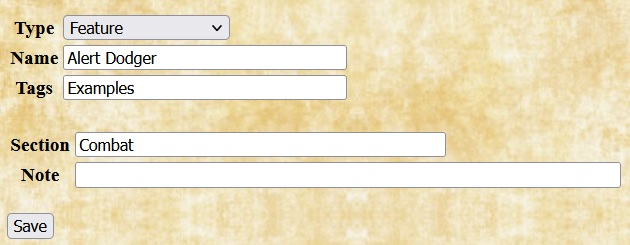
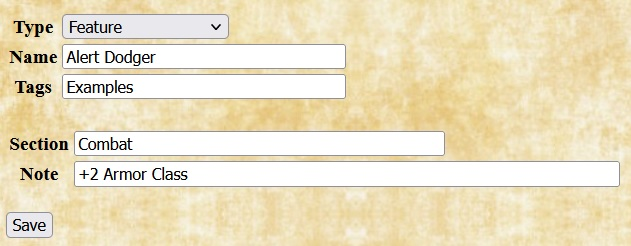
Add examples to description of using character attrs in homebrew choice definitions.

diff --git a/plugins/homebrew-srd35.html b/plugins/homebrew-srd35.html
@@ -371,8 +371,8 @@ of 19-20/x2.
 <p>
 There are three places that you might want to use references to character
 attributes when adding homebrew choices: prerequisites for homebrew classes,
-feats, class and race features, and races; embedded in feature notes and spell
-descriptions; and placement in feature notes that modify character attributes.
+feats, class and race features, and races; in feature notes that modify
+character attributes; and embedded in feature notes and spell descriptions.
 Attribute references appear somewhat differently in each of these contexts.
 </p><p>
 The examples below develop a homebrew feat named Alert Dodger. Like the monk AC
@@ -385,23 +385,23 @@ as a fighter bonus feat, so the initial entry for the feat looks like this:
 <h2>Using attributes in prerequisites</h2>
 
 <p>
-In the core rulebook, all prestige classes and many feats have
+In the core rulebook, many feats and all prestige classes have
 prerequisites&mdash;attribute values that the character must have to take the
 feat or a level in the prestige class. Quilvyn allows you to specify similar
 prerequisites when entering a homebrew class, feat, or race.
 </p><p>
 Since the effects of the Alert Dodger feat come from battle experience, it
 makes sense to require a minimum base attack bonus&mdash;say, 3&mdash;to take
-the feat. This is represented by adding text to the feat Prerequisite field:
+the feat. This is represented by adding text to the feat's Prerequisite field:
 </p>
 <img src='../Images/hb-attr-1.jpg' alt='Alert Dodger feat'/>
 
 <p>
 Quilvyn will generate tests for this requirement and will show a validation
-error if a character with a base attack bonus of 2 or lower is given this feat.
+error if a character with a base attack bonus of 2 or less is given this feat.
 You can also specify that the character must have a specific feature as part of
-your prerequisites. For the Alert Dodger feat, it makes sense to require that
-the character also have the Dodge feature:
+your prerequisites. For the Alert Dodger feat, it seems reasonable to require
+that the character also have the Dodge feature:
 </p>
 <img src='../Images/hb-attr-2.jpg' alt='Alert Dodger feat'/>
 
@@ -429,19 +429,29 @@ while the second allows any good alignment:
 <code>alignment == 'Lawful Good'</code><br/>
 <code>alignment =~ 'Good'</code>
 </p><p>
-<a href="https://developer.mozilla.org/en-US/docs/Web/JavaScript/Guide/Regular_expressions">Pattern Matching</a>
+(You can think of the =~ and !~ operators as "contains" and "does not contain",
+but they actually perform a pattern match, treating their second operand as a
+regular expression. This means that certain characters, such as * and ?, have
+special meanings if they appear in the second operand. The Mozilla project
+provides a web page with
+<a href="https://developer.mozilla.org/en-US/docs/Web/JavaScript/Guide/Regular_expressions">a detailed description of regular expressions</a>.)
 </p>
 
 <h2>Using features to modify character attributes</h2>
 
-<img src='../Images/hb-attr-feature-0.jpg' alt='Alert Dodger feature'/>
-
 <p>
-Quilvyn automatically generates rules from feature notes that modify simple
-character attributes. Given a feature note that reads
+With the Alert Dodger feat definition complete, the next step is to create the
+corresponding feature, also named Alert Dodger. This will add the description
+of the feat to the character sheet and allow Quilvyn to create rules to
+implement its effects. Since the feat affects a character's armor class, its
+note will fit best in the combat section.
+</p><p>
+To illustrate how Quilvyn processes feature notes, we'll initially define the
+Alert Dodger feat to add a fixed +2 to the character's armor class, switching
+later to adding the wisdom modifier instead.
 </p>
 
-<code>+2 Armor Class</code>
+<img src='../Images/hb-attr-feature-0.jpg' alt='Alert Dodger feature'/>
 
 <p>
 Quilvyn will automatically generate a rule that adds two to the character's
@@ -449,10 +459,12 @@ armor class value, and the note will appear in italics on the character sheet.
 For readability, character attributes in feature notes must appear with initial
 capital letters and spaces between words, as shown above. Single features can
 modify multiple attributes; in these cases, the note should list the individual
-modifications separated by slashes:
+modifications separated by slashes. This was shown above in the
+<a href="#race">race definition</a>, where the note for the Lizardfolk Ability
+Adjustment read:
 </p>
 
-<code>+2 Wisdom/-2 Intelligence</code>
+<code>+2 Strength/+2 Constitution/-2 Intelligence</code>
 
 <p>
 Notes in the save and skill sections can modify save bonuses and skill
@@ -471,7 +483,7 @@ based on character attributes. For example: the Spell Mastery feat allows a
 wizard to prepare a number of spells equal to their intelligence modifier
 without referring to their spellbook; an assassin's Death Attack can inflict
 paralysis for 1d6 rounds + 1 round per assassin level; and the
-<i>Acid Splash</i> spell has a range of 25' + 5'/2 levels.
+<i>Acid Splash</i> spell has a range of 25' + 5' per 2 caster levels.
 </p><p>
 You can embed references to character attributes in feature notes and spell
 descriptions by enclosing them within the characters %{}. Using this ability,
@@ -484,21 +496,30 @@ the note for the Spell Mastery feat looks like this:
 When Quilvyn displays this note on the character sheet, it first replaces the
 reference to the character's intelligenceModifier attribute with its value, so
 the note might appear on the sheet as
+</p><p>
+<code>May prepare 2 spells w/out spellbook</code>
+</p><p>
+We can use this ability to replace the fixed +2 entered earlier for the effects
+of the Alert Dodger feature with an amount equal to the character's wisdom
+modifier, giving us its final definition:
 </p>
 
-<code>May prepare 2 spells w/out spellbook</code>
+<img src='../Images/hb-attr-feature-1.jpg' alt='Alert Dodger feature'/>
 
 <p>
-Beyond simple references, Quilvyn supports performing calculations with
+Given this note, Quilvyn will automatically generate a rule to add the
+character's wisdom modifier to their armor class and will display the note in
+italics.
+</p><p>
+Beyond simple references, Quilvyn supports performing calculations within
 embedded references. The note for the assassin's Death Attack feature looks
 like this:
-</p>
-
+</p><p>
 <code>Sneak attack after 3 rd of study causes death or paralysis for 1d6+%{levels.Assassin} rd (DC %{10 + levels.Assassin + intelligenceModifier} Fort neg)</code>
-
-<p>
+</p><p>
 As this note shows, individual notes and descriptions can contain multiple
-embedded references and individual references can use multiple attributes.
+embedded references, and individual references can use multiple attributes.
+</p><p>
 Within embedded references, Quilvyn supports the common comparison operators
 (&lt;, &lt;=, &gt;, &gt;=, ==, !=), the common arithmetic operators
 (+, -, *, /, unary -), AND (&amp;&amp;), OR (||), matching (=~, !~),
@@ -515,7 +536,7 @@ features extend the duration of the rage:
 <p>
 Within spell descriptions, in addition to <a href="#attrs">common character
 attributes</a>, Quilvyn makes available the special character attribute lvl.
-This varaible refers to the caster level appropriate to the specific spell, so
+This variable refers to the caster level appropriate to the specific spell:
 casterLevels.Cleric for the C1 spell <i>Bane</i>, casterLevels.Bard for the B0
 spell <i>Dancing Lights</i>, casterLevels.Sorcerer for the S2 spell <i>Arcane
 Lock</i>, and so on. Using the lvl attribute allows you to incorporate the
